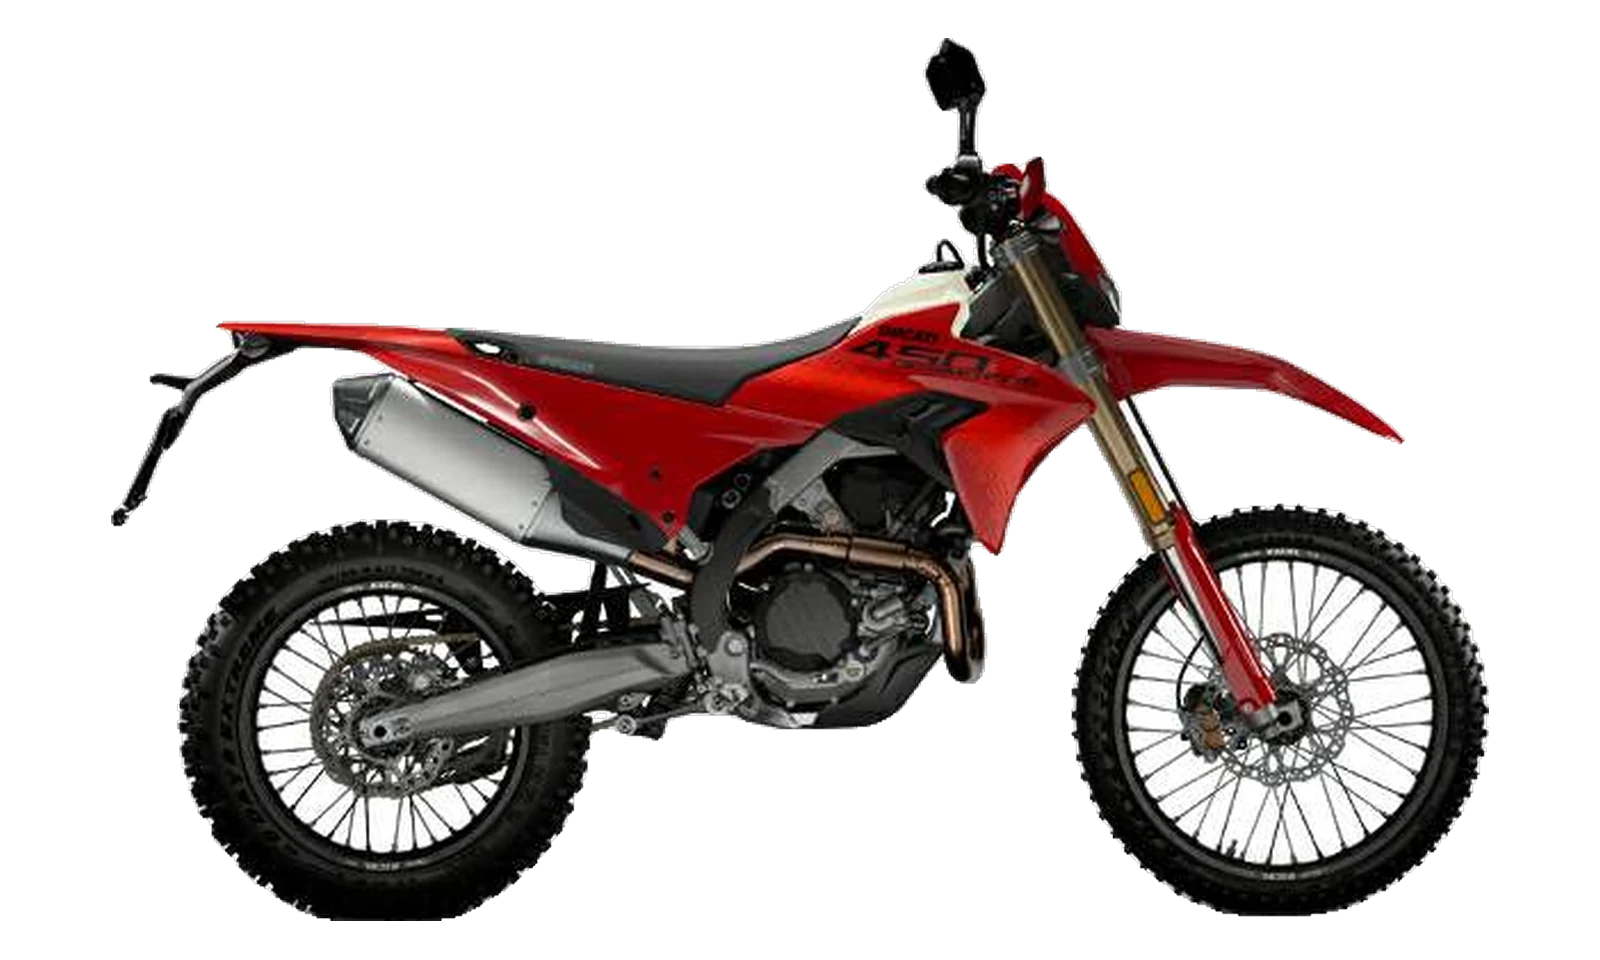
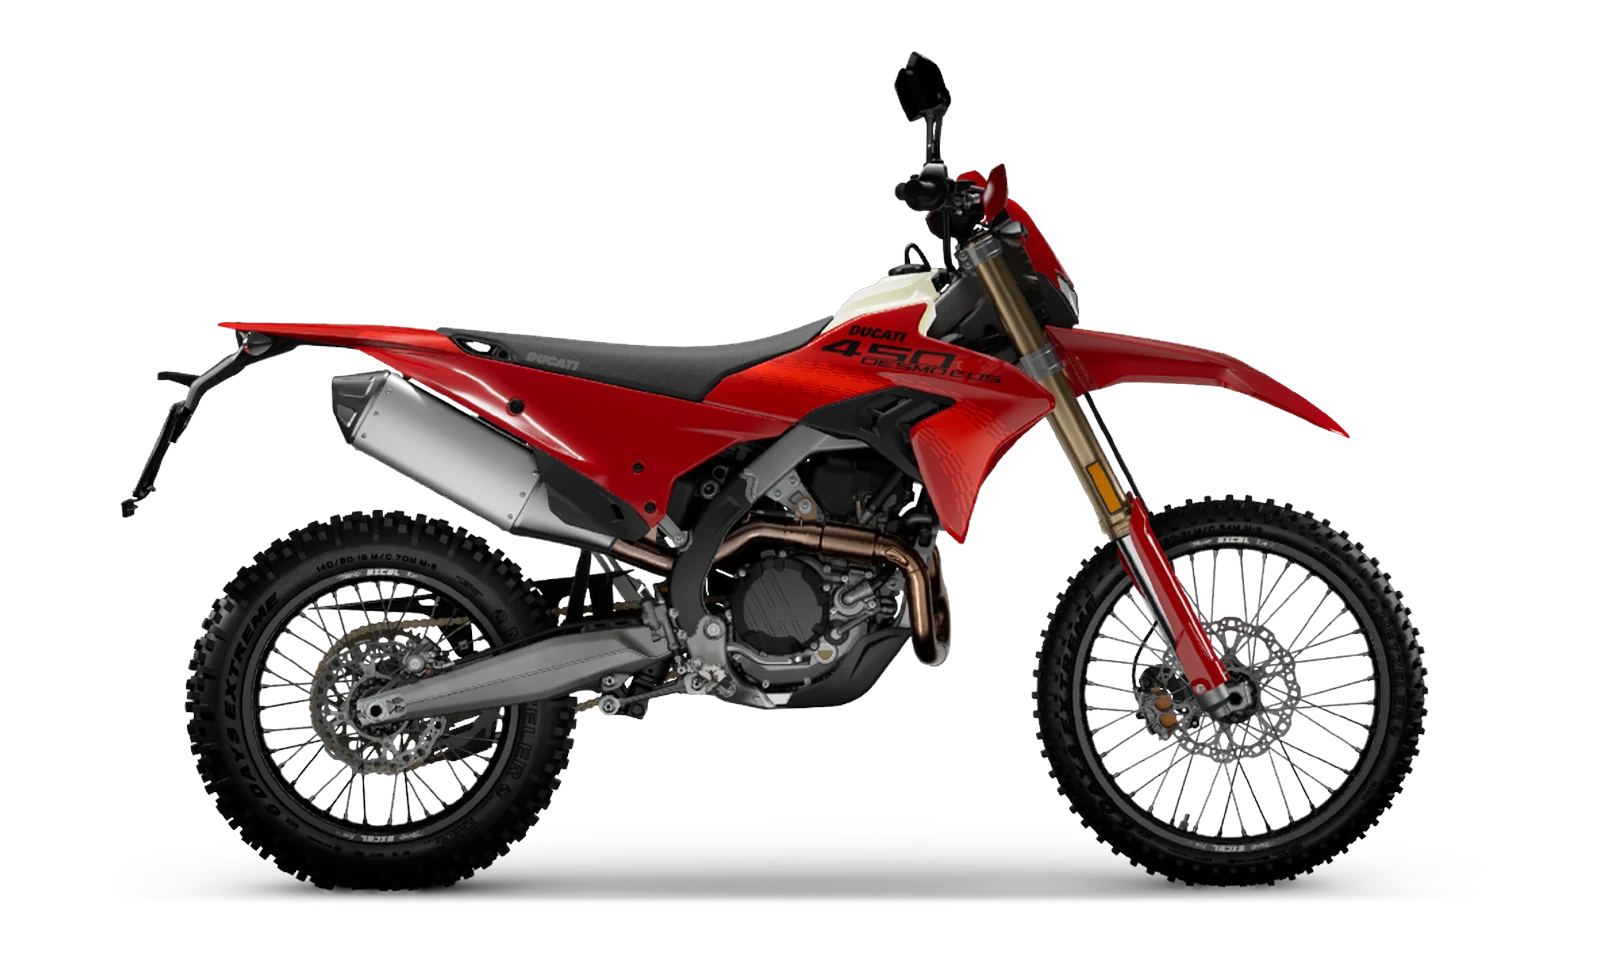
fix: update ducati pics

Changed region(s): [[0.0625, 0.0312, 0.9375, 0.9688]]

diff --git a/src/data/photos.ts b/src/data/photos.ts
@@ -1,4 +1,4 @@
-export type Side = "left" | "right";
+export type Side = "left" | "right" | "front";
 export type View = { side: Side; src: string };
 export type PhotoSet = {
   views: View[];
@@ -74,9 +74,14 @@ export const photos: Record<string, PhotoSet> = {
     source: "https://www.motorcyclespecs.co.za/model/Honda/honda_crf450L_20.html",
   },
   "ducati-desmo450-eds": {
-    views: [{ side: "right", src: "/bikes/ducati-desmo450-eds/right.webp" }],
+    views: [
+      { side: "right", src: "/bikes/ducati-desmo450-eds/right.webp" },
+      { side: "left", src: "/bikes/ducati-desmo450-eds/left.webp" },
+      { side: "front", src: "/bikes/ducati-desmo450-eds/front.webp" },
+    ],
     credit: "Ducati",
-    source: "https://www.motorcyclespecs.co.za/model/ducati/ducadti-desmo-450eds-2027.html",
+    source:
+      "https://images.ctfassets.net/x7j9qwvpvr5s/3jEDT5uRS22eQMEUsmMtxc/07a88194aef5a8934a4fc23c27963329/2026-06-09-Desmo450-EDS-EU-MY27-Model-Preview-1050x650.png",
   },
   "ccm-gp450": {
     views: [{ side: "right", src: "/bikes/ccm-gp450/right.webp" }],

diff --git a/src/components/BikeGlyph.tsx b/src/components/BikeGlyph.tsx
@@ -1,11 +1,29 @@
-/** Schematic dual-sport side view. Points the way the view it selects points. */
+/** Schematic dual-sport. Side views point the way the view they select points. */
 export function BikeGlyph({
   side,
   className,
 }: {
-  side: "left" | "right";
+  side: "left" | "right" | "front";
   className?: string;
 }) {
+  if (side === "front") {
+    return (
+      <svg viewBox="0 0 48 28" className={className} aria-hidden focusable="false">
+        <g
+          fill="none"
+          stroke="currentColor"
+          strokeWidth={2}
+          strokeLinecap="round"
+          strokeLinejoin="round"
+        >
+          <path d="M13 7 H20 M28 7 H35" />
+          <path d="M24 9 L20 15 H28 Z" />
+          <path d="M24 15 V24" />
+          <ellipse cx={24} cy={24} rx={3.5} ry={3.5} />
+        </g>
+      </svg>
+    );
+  }
   return (
     <svg viewBox="0 0 48 28" className={className} aria-hidden focusable="false">
       <g

diff --git a/src/components/DetailPanel.tsx b/src/components/DetailPanel.tsx
@@ -17,6 +17,8 @@ import { asset } from "@/lib/base-path";
  * left, and a shaft-drive boxer claims neither.
  */
 function sideLabel(bike: Bike, side: Side) {
+  // a head-on view has no side to attribute the drive or the exhaust to
+  if (side === "front") return "Front";
   const name = side === "left" ? "Left" : "Right";
   const on = [
     (bike.driveSide ?? "left") === side && "drive",
